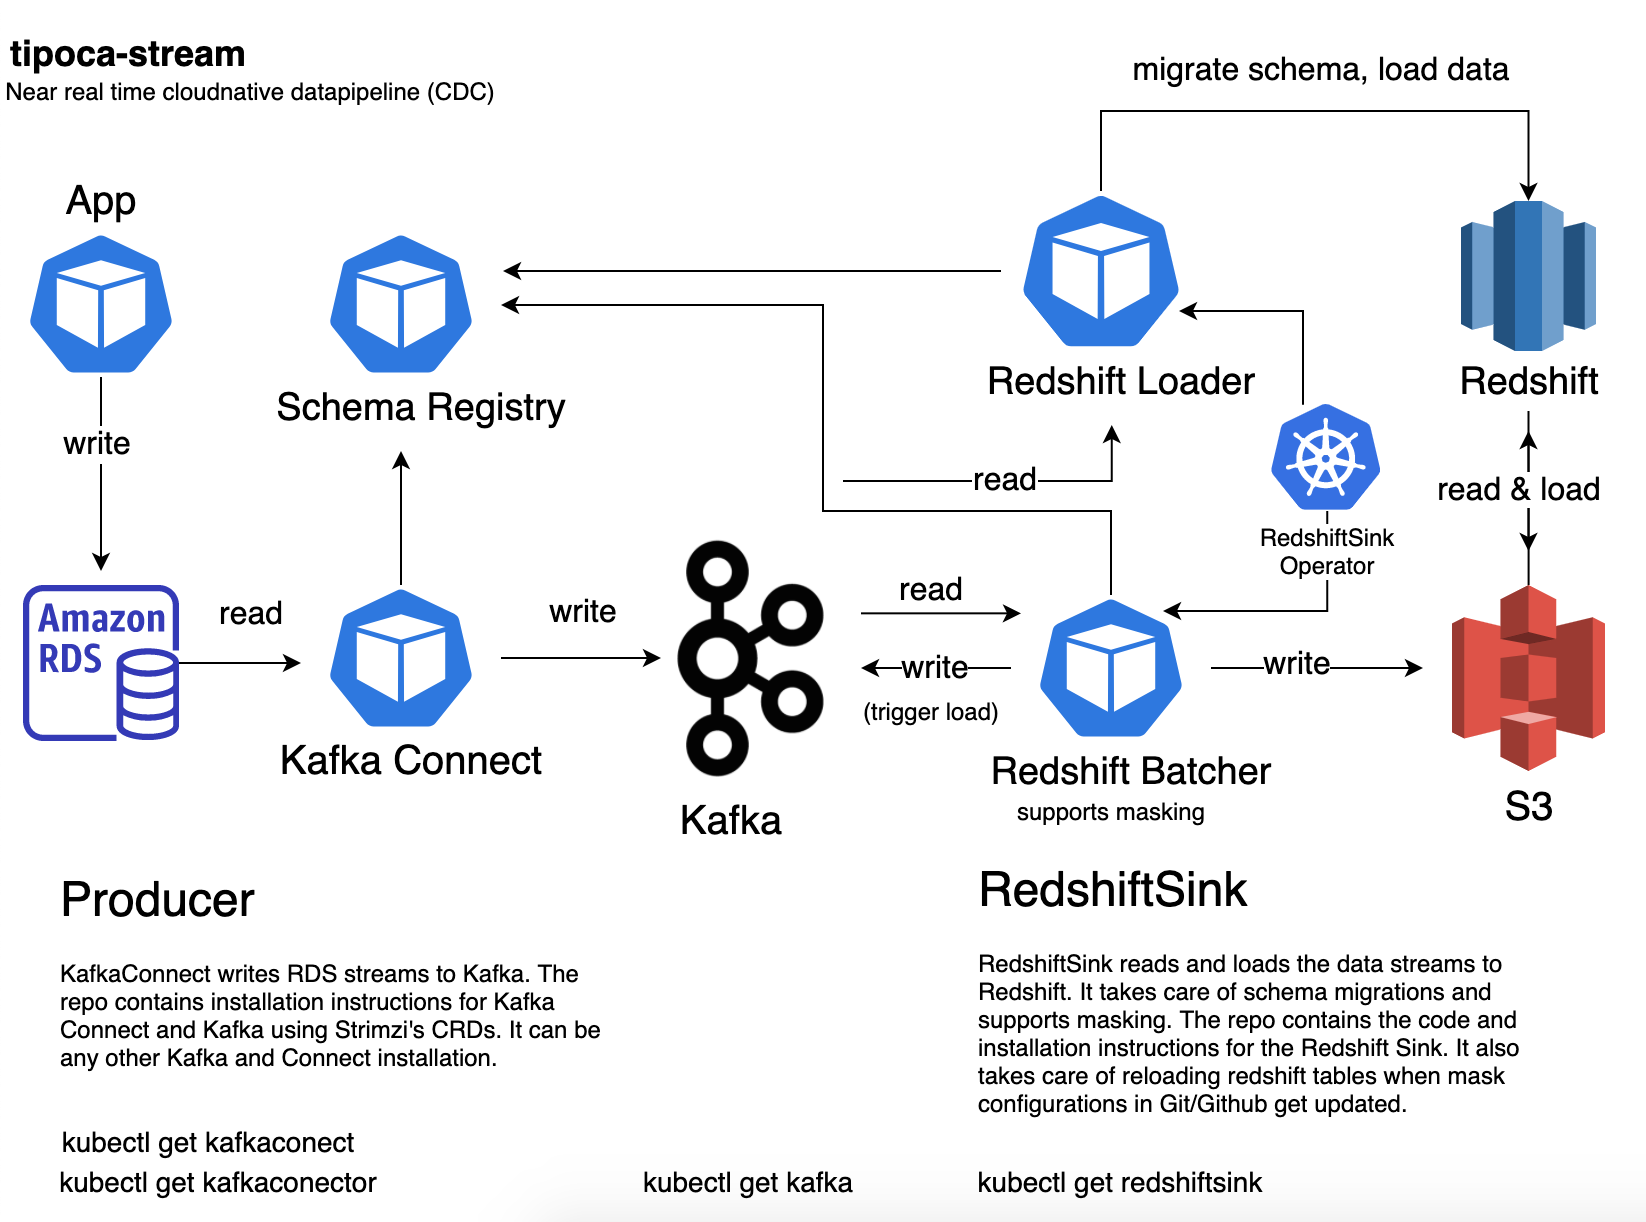
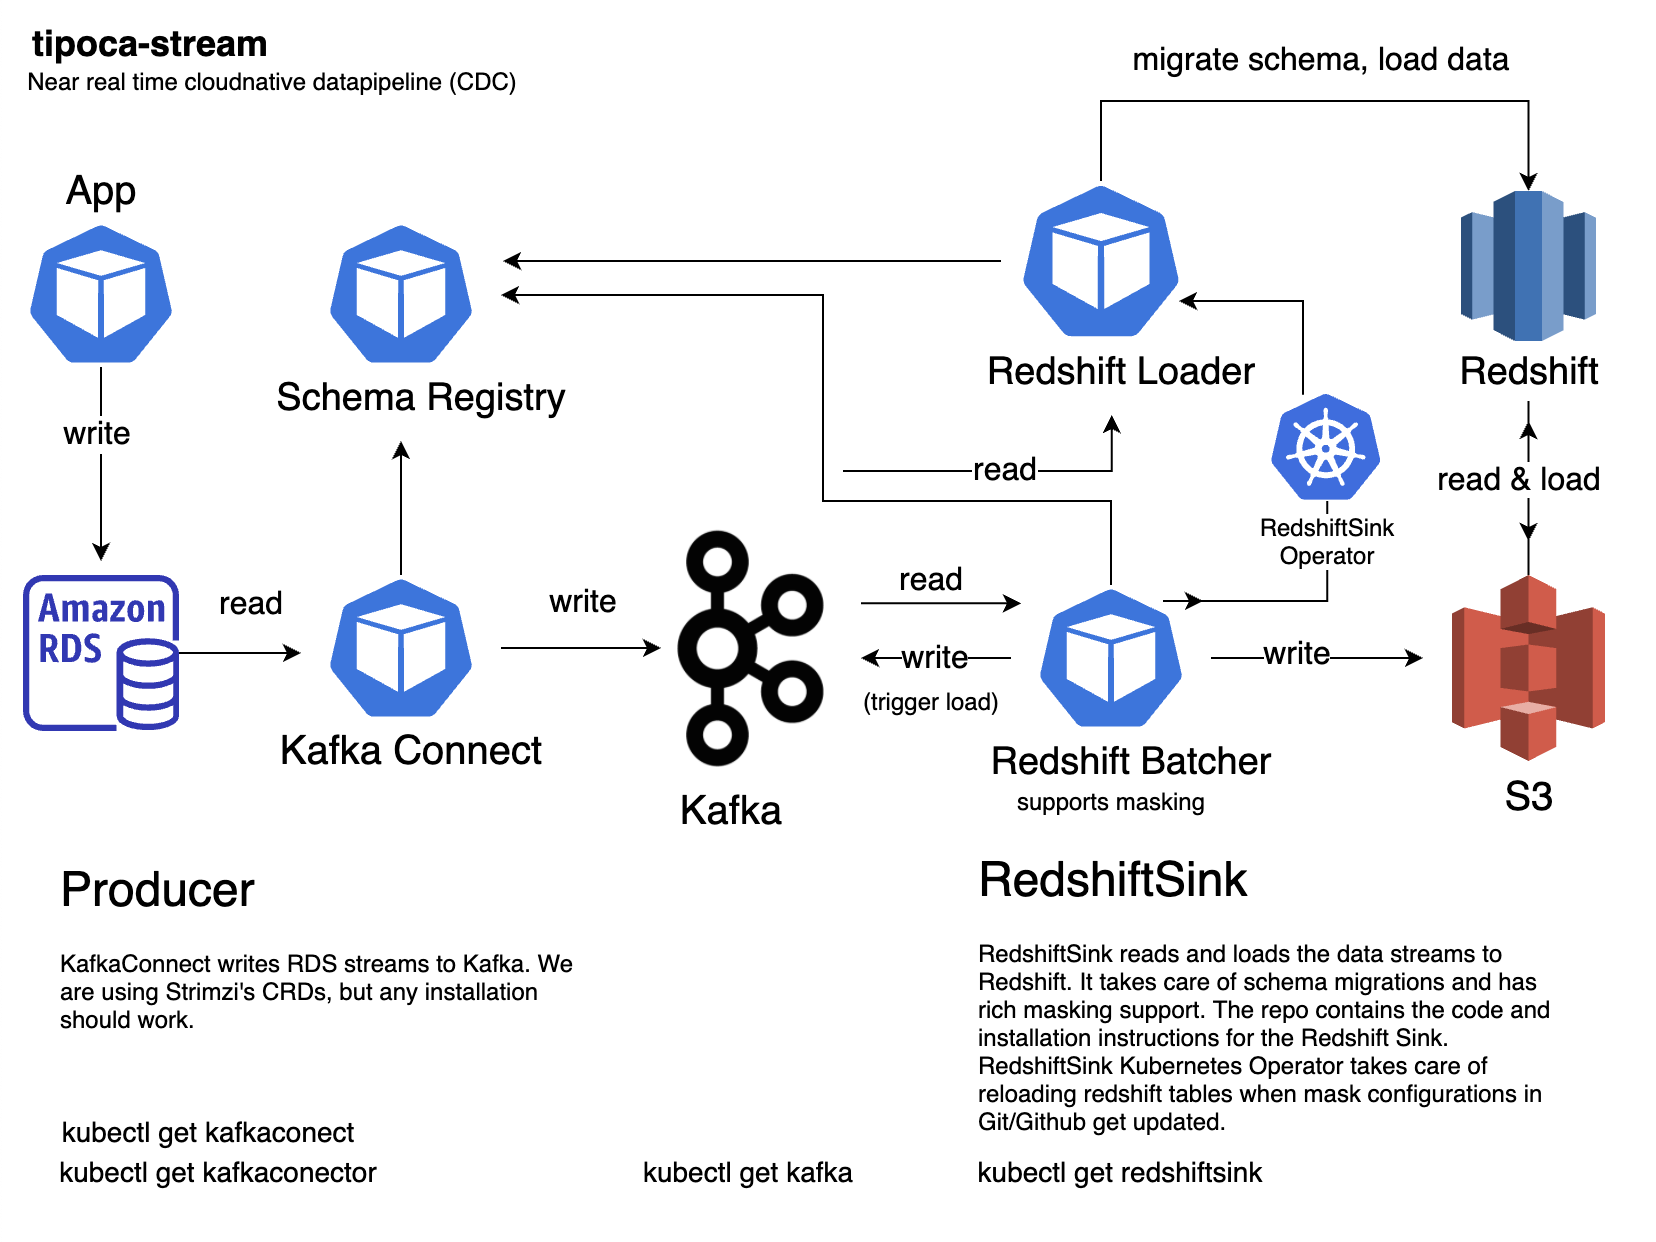
Updated project info

diff --git a/README.md b/README.md
@@ -16,14 +16,14 @@ The pipeline is a combination of services deployed independently.
 ```
 Creating the RedshiftSink CRD object installs Batcher and Loader pods in the cluster. These pods sinks the data from Kafka topics to Redshift, it also takes care of the database migration when required. Redshiftsink also has a rich [masking](https://github.com/practo/tipoca-stream/blob/master/redshiftsink/MASKING.md) support. (TODO=>) It supports table reloads in Redshift when masking configurations are modified in Github.
 
-- **Producer** Using [Strimzi](http://strimzi.io/) CRDs. [Instructions.](https://github.com/practo/tipoca-stream/blob/master/producer/README.md) (can be deployed as regular deployments as well)
+- **Producer** Using [Strimzi](http://strimzi.io/) CRDs. [Installation Instructions.](https://strimzi.io/docs/operators/latest/deploying.html)
 ```
       kubectl get kafkaconnect
       kubectl get kafkaconnector
 ```
 Creating the kafkaconect and kafkaconnector creates a kafkaconnect pod in the cluster which start streaming the data from the source(MYSQL, RDS, etc..) to Kafka.
 
-- **Kafka** Using [Strimzi](http://strimzi.io/) CRDs or self hosted or managed kafka. (TODO instructions)
+- **Kafka** Using [Strimzi](http://strimzi.io/) CRDs. [Installation Instructions](https://strimzi.io/docs/operators/latest/deploying.html) or self hosted or managed kafka.
 ```
       kubectl get kafka
 ```
@@ -42,4 +42,4 @@ This repo holds the code for [redshiftsink](./redshiftsink) only. Please follow 
 - Thockin for open-sourcing [go-build-template](https://github.com/thockin/go-build-template).
 - Clever for open-sourcing [s3-to-redshift library](https://github.com/Clever/s3-to-redshift/).
 - herryg91 for open-sourcing [go batch libray](https://github.com/herryg91/gobatch).
-- danielqsj for [kafka-exporter](https://github.com/danielqsj/kafka_exporter)
+- danielqsj for [kafka-exporter](https://github.com/danielqsj/kafka_exporter).
